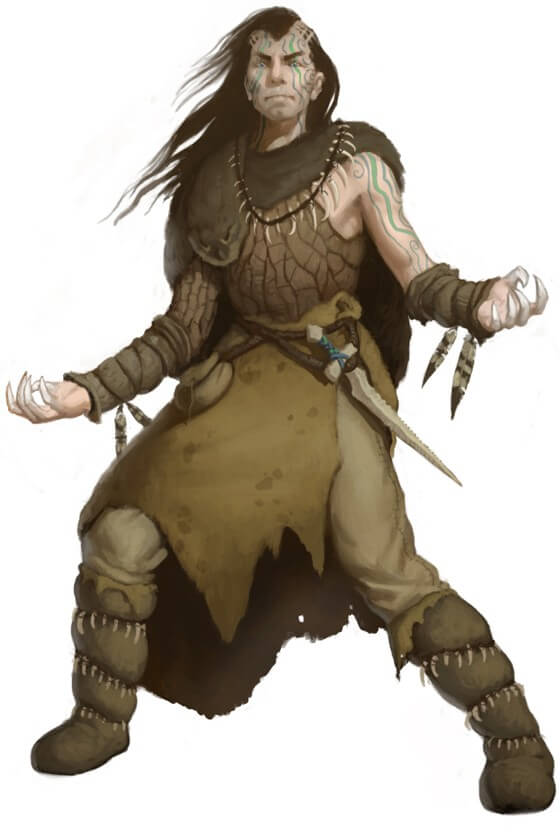
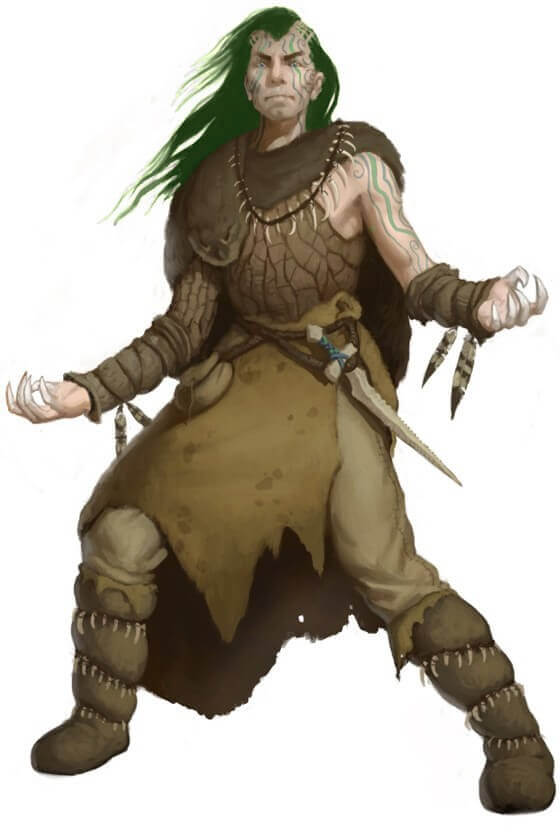
update images

Changed region(s): [[0.2125, 0.0, 0.5464, 0.2786], [0.5464, 0.031, 0.6071, 0.1548]]

diff --git a/councilofthieves/heroes.html b/councilofthieves/heroes.html
@@ -158,21 +158,21 @@
       </article>
       <article>
         <h2>Ermolos</h2>
-        <h3>Chelish Expert 1</h3>
-        <img src="images/ermolos1.jpg" alt="Ermolos">
+        <h3>Chelish Fighter 1</h3>
+        <img src="images/ermolos2.jpg" alt="Ermolos">
         <p>Description: Ermolos is incredibly muscular, a physique the result of a long apprenticeship as a blacksmith. He walks with a slight limp – a lingering effect of a childhood illness. His father and namesake was an adventurer who vanished on an ill-fated journey to Thuvia several years ago — Ermolos still clings to the hope to someday travel across the Inner Sea to find him.</p>
-        <p>Awakened Role: Unknown</p>
-        <p>Lesser Boon: Unknown</p>
+        <p>Awakened Role: Master of Arms - Ermolos's blacksmith training allows him to adjust and enhance the metal of his allies.</p>
+        <p>Lesser Boon: Ermolos can improve the PC's armor, reducing the armor check penalty by 1 and granting the armor the fitted armor modification. This takes 1 hour for light armor, 4 hours for medium armor, and 8 hours for heavy armor, and the benefit only applies to the person fitted for the person fitted for the armor, though other creatures may wear the armor normally. In adition, Ermolos can also attach armor attachments for the cost of materials (such as armor spikes) and size down armor one size category for free, using the same time rules as above. Ermolos is not skilled enough to adjust magical armor with an enhancement cost greater than +3.</p>
         <p>Greater Boon: Unknown</p>
         <p>Light Level: Bright</p>
       </article>
       <article>
         <h2>Fiosa</h2>
-        <h3>Halfling Expert 1</h3>
-        <img src="images/fiosa1.jpg" alt="Fiosa">
+        <h3>Halfling Cleric of Iomedae 1</h3>
+        <img src="images/fiosa2.jpg" alt="Fiosa">
         <p>Description: Fiosa is a house servant who is friends with many halfling slaves; she takes advantage of her freedom to help her kin as best she can. She has a very real respect for Janiven and Arael after they helped her smuggle several halfing slaves out of Westcrown, and a growing respect for religion in general.</p>
-        <p>Awakened Role: Unknown</p>
-        <p>Lesser Boon: Unknown</p>
+        <p>Awakened Role: The Medic - Fiosa is a skilled healer, even without her magic, and is a major help when treating diseases or poisons</p>
+        <p>Lesser Boon: Her preparation for missions allows one PC to re-roll a failed fortitude save to resist the effects of a poison or disease once per mission. This may be done after the result of the roll is revealed, though they must take the second result.</p>
         <p>Greater Boon: Unknown</p>
         <p>Light Level: Bright</p>
       </article>
@@ -218,11 +218,11 @@
       </article>
       <article>
         <h2>Sclavo</h2>
-        <h3>Garundi Expert 1</h3>
-        <img src="images/sclavo1.jpg" alt="Sclavo">
+        <h3>Garundi Paladin of Iomedae 1</h3>
+        <img src="images/sclavo2.jpg" alt="Sclavo">
         <p>Description: A soft-spoken man and private follower of Iomedae, Sclavo has long worked as a scribe for one of Westcrown’s courts and has a working knowledge of Chelish Law. He longs for a day when the laws of Cheliax can be reformed and sees this group as the perfect means to that end. </p>
-        <p>Awakened Role: Unknown</p>
-        <p>Lesser Boon: Unknown</p>
+        <p>Awakened Role: The Face – Sclavo speaks softly, but his words carry with them great weight. An expert at dealing with people, he finds himself speaking with the majority of Westcrown, quietly comforting civilians who have lost something or assuring others that his group will help them.</p>
+        <p>Lesser Boon:  Sclavo grants the PCs a +2 circumstance bonus to all Diplomacy checks.</p>
         <p>Greater Boon: Unknown</p>
         <p>Light Level: Bright</p>
       </article>
@@ -238,11 +238,11 @@
       </article>
       <article>
         <h2>Vitti</h2>
-        <h3>Chelish Expert 1</h3>
-        <img src="images/vitti1.jpg" alt="Vitti">
+        <h3>Chelish Druid 1</h3>
+        <img src="images/vitti2.jpg" alt="Vitti">
         <p>Description: Vitti is a strange, eccentric man who dyes his hair green and refuses to eat any food he doesn’t grow or catch himself. A talented woodcarver whose works earn him a modest income, he prides himself on the fact that he only carves on wood that’s been harvest from deadfalls and other trees that died of natural causes.</p>
-        <p>Awakened Role: Unknown</p>
-        <p>Lesser Boon: Unknown</p>
+        <p>Awakened Role: Tunnel Rat – There has never been much nature in Westcrown, leaving Vitti to commune with nature in an unlikely place: the sewers. He tames and trains an alligator named Leatherhead to accompany him and grows the most familiar with Westcrown’s underground out of all the NPCs.</p>
+        <p>Lesser Boon: Vitti grants all PCs Favored Terrain +2 when in the sewers, as per the Ranger ability. In adition, Vitti can guide the party through the sewers. While acting as guide, Vitti cannot get lost and can avoid hostile encounters with creatures with the same number of HD or less than himself.</p>
         <p>Greater Boon: Unknown</p>
         <p>Light Level: Bright</p>
       </article>
